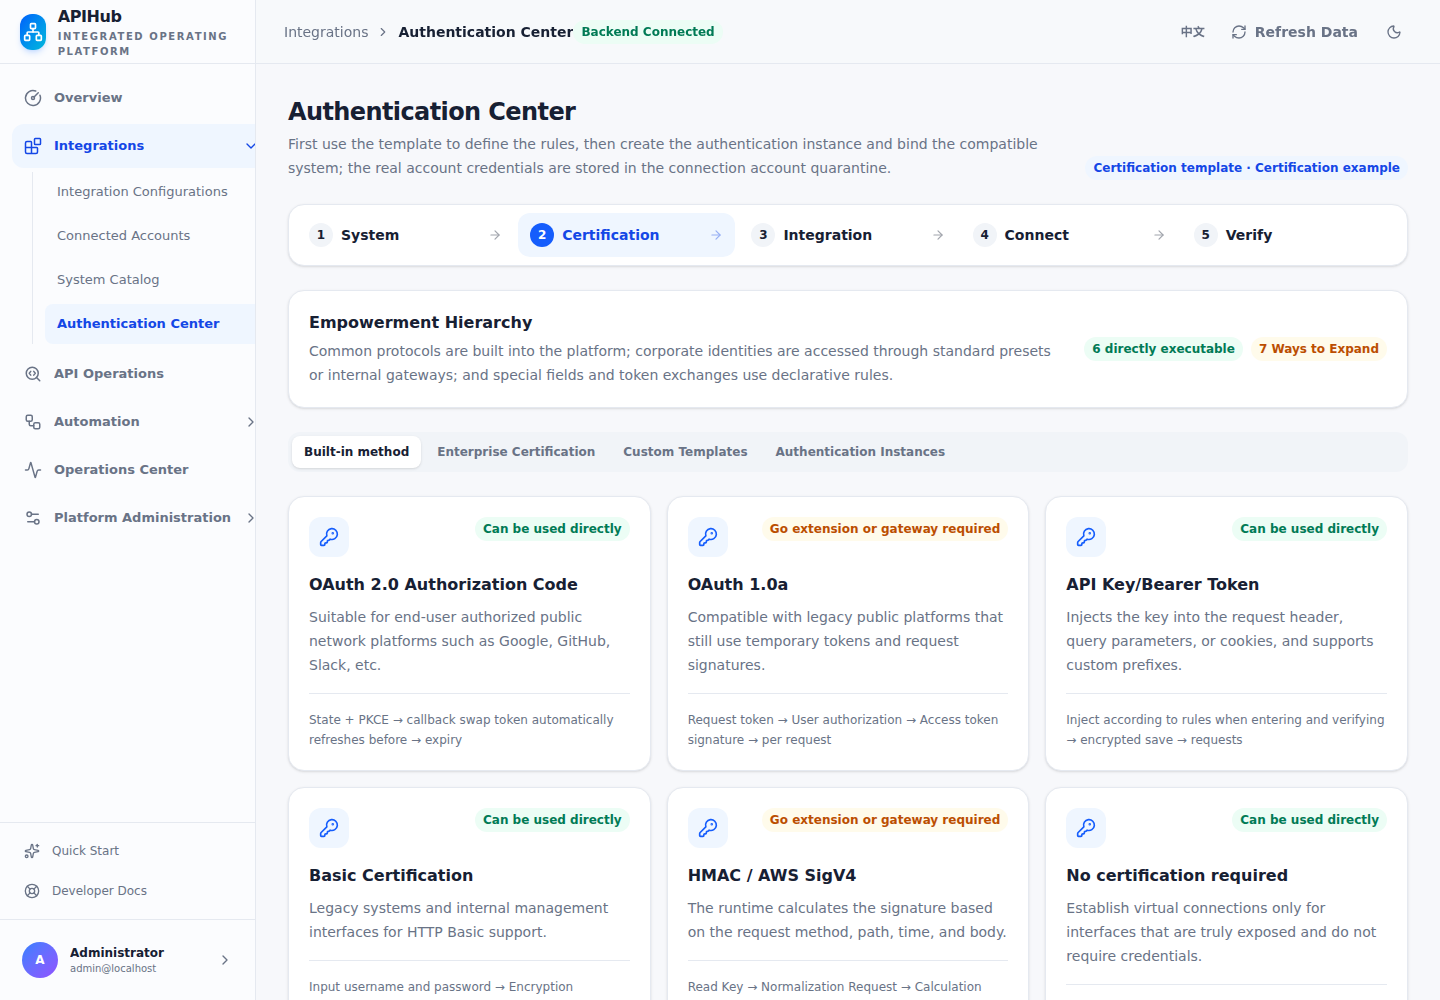
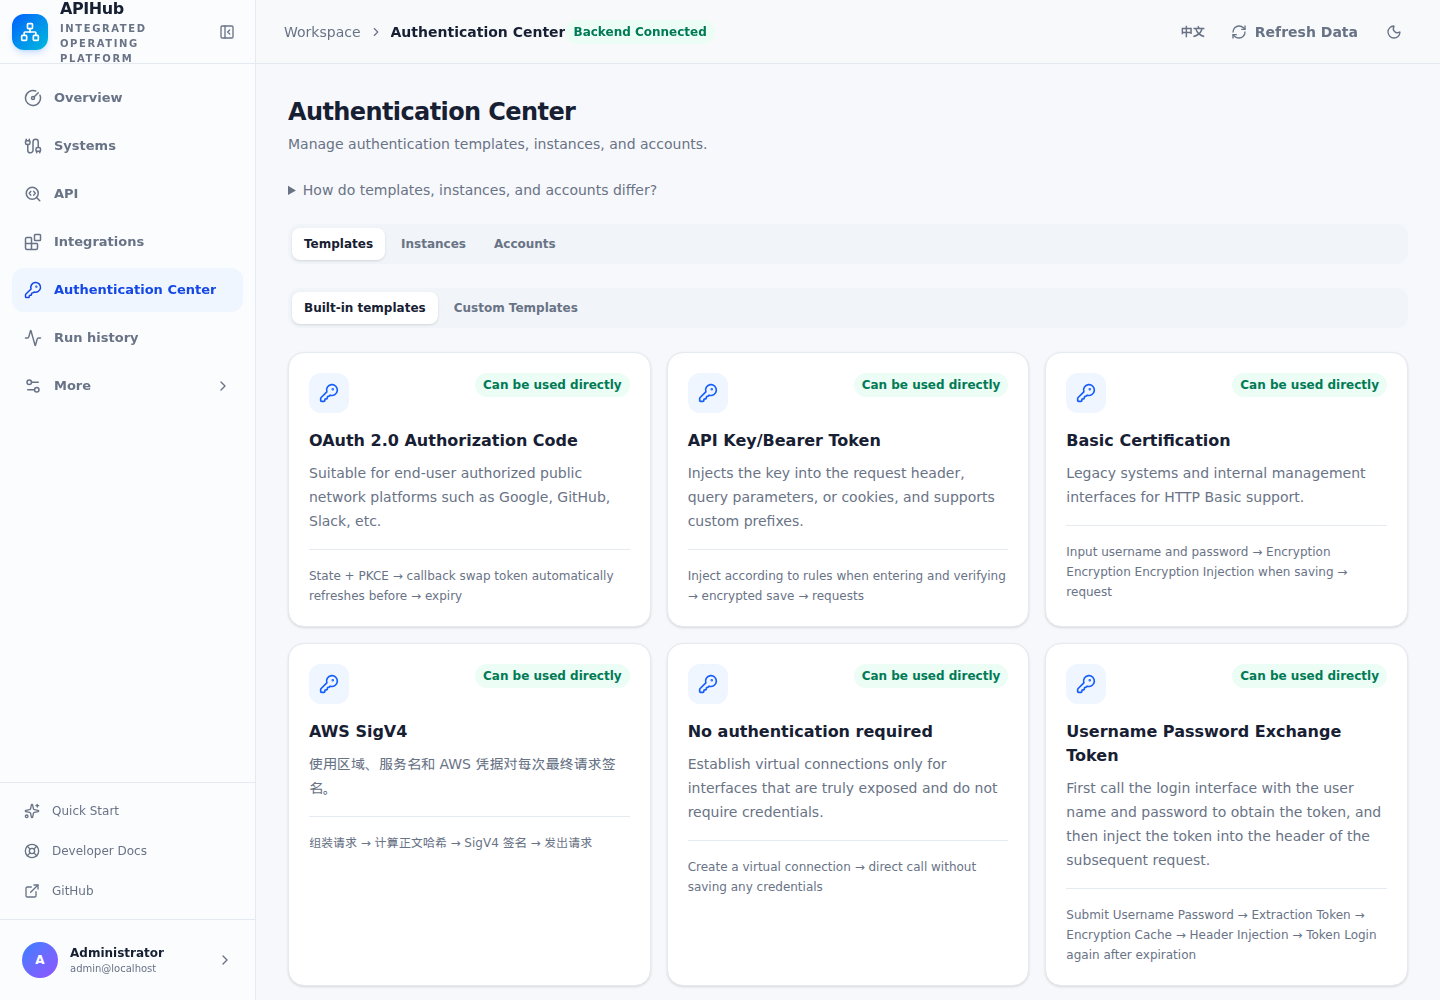
docs: refresh current console screenshots

diff --git a/docs/screenshots/README.md b/docs/screenshots/README.md
@@ -1,20 +1,20 @@
 # Console screenshots / 后台截图
 
-These screenshots were captured from the running Connara administration console (then named APIHub) on 2026-09-17 after the sidebar was reorganized into six main entries. They show actual built-in catalog data, with no configured integrations or generated business activity. The only displayed account is the local default administrator; no passwords, tokens, or credential forms are exposed.
+These screenshots were refreshed from the current embedded Connara administration console on 2026-10-04. The application still displays its APIHub compatibility name. System and API screenshots are filtered to built-in GitHub records; Authentication Center shows built-in templates. User-created systems, internal addresses, credentials, and run history are excluded.
 
-以下截图于 2026-09-17 从运行中的 Connara 后台（拍摄时名称为 APIHub）直接获取，使用六个主入口的新版侧栏。画面为实际内置目录，未添加业务集成或模拟运行数据；仅显示本地默认管理员，不包含密码、Token 或凭据表单。
+以下截图于 2026-10-04 从当前内嵌 Connara 管理后台重新采集，界面仍显示 APIHub 兼容名称。系统和 API 截图只展示筛选后的内置 GitHub 数据，认证中心只展示内置模板；自建系统、内网地址、凭据和运行记录均已排除。
 
 | View / 页面 | English | 简体中文 |
 | --- | --- | --- |
-| Overview / 概览 | [overview.en.png](overview.en.png) | [overview.zh-CN.png](overview.zh-CN.png) |
+| Visual workflow editor / 可视化工作流编辑器 | [overview.en.png](overview.en.png) | [overview.zh-CN.png](overview.zh-CN.png) |
 | System catalog / 系统目录 | [systems.en.png](systems.en.png) | [systems.zh-CN.png](systems.zh-CN.png) |
 | Authentication / 认证中心 | [authentication.en.png](authentication.en.png) | [authentication.zh-CN.png](authentication.zh-CN.png) |
 | API actions / API 操作 | [actions.en.png](actions.en.png) | [actions.zh-CN.png](actions.zh-CN.png) |
 | Mobile navigation / 手机导航 | [mobile-navigation.en.png](mobile-navigation.en.png) | [mobile-navigation.zh-CN.png](mobile-navigation.zh-CN.png) |
 
-Desktop viewport: **1440 × 1000**. Mobile viewport: **390 × 844**. Theme: **light**. Capture tool: **agent-browser**. Each language uses its corresponding UI language setting. Current English screenshots retain any untranslated text from the application; they have not been edited to simulate a more complete translation.
+Desktop viewport: **1440 × 1000**. Mobile viewport: **390 × 844**. Theme: **light**. Capture tool: **agent-browser**. Each language uses the real UI language setting. Current English screenshots retain untranslated workflow and authentication text from the application; the images were not edited to simulate a complete translation.
 
-桌面视口为 **1440 × 1000**，手机视口为 **390 × 844**，使用浅色主题和 **agent-browser** 截图。两种语言分别切换实际 UI 语言后获取；英文画面中的未翻译文本按实际保留，没有通过编辑图片伪造翻译效果。
+桌面视口为 **1440 × 1000**，手机视口为 **390 × 844**，使用浅色主题和 **agent-browser** 截图。两种语言分别切换实际 UI 语言后获取；英文工作流和认证界面中的未翻译文本按实际保留，没有编辑图片伪造完整翻译。
 
 The current visual workflow editor screenshots and their capture boundaries are documented in [the workflow screenshot index](../assets/workflows/README.md).
 
@@ -24,8 +24,8 @@ To refresh / 更新截图：
 
 1. Start the current build and sign into an authorized local instance. / 启动当前构建并登录授权的本地实例。
 2. Select English or Chinese and the light theme. / 选择对应语言和浅色主题。
-3. Visit `/`, `/providers`, `/auth`, and `/actions`, wait for backend loading to finish, and capture at the desktop viewport. / 依次打开这些页面，等待后端加载完成，以桌面尺寸截图。
-4. At the mobile viewport, open navigation on `/providers` and wait for the drawer animation to finish before capturing. / 手机尺寸下打开系统目录的导航抽屉，待动画结束后截图。
-5. Check that no credentials or private business data are visible, then update both language variants. / 检查没有凭据或私有业务数据，再更新中英文两套图片。
+3. Capture `/workflows/new`; filter `/providers` and `/actions` to the built-in GitHub records; open `/auth?section=templates`. Wait for backend and capability loading before every capture. / 截取 `/workflows/new`；将 `/providers` 和 `/actions` 筛选为内置 GitHub 数据；打开 `/auth?section=templates`。每次截图前等待后台和能力加载完成。
+4. At the mobile viewport, open navigation on `/workflows/new` and wait for the drawer animation to finish. / 手机尺寸下在 `/workflows/new` 打开导航抽屉，待动画结束后截图。
+5. Check the final pixels for user-created systems, internal URLs, credentials, and run history, then update both language variants. / 检查最终图片没有自建系统、内网地址、凭据或运行记录，再更新中英文两套图片。
 
 Return to [English README](../../README.md) / [中文 README](../../README.zh-CN.md).

diff --git a/README.md b/README.md
@@ -8,7 +8,7 @@ A self-hosted API integration platform for connecting external services and inte
 
 Connara combines a system/action catalog with connection and authentication management. The backend is written in Go, and the React console is embedded in the application binary: a basic installation runs **one Connara process, PostgreSQL, and Redis**.
 
-![Connara administration console — integration overview](docs/screenshots/overview.en.png)
+![Connara visual workflow editor](docs/screenshots/overview.en.png)
 
 [![License: Apache-2.0](https://img.shields.io/badge/License-Apache%202.0-blue.svg)](LICENSE)
 
@@ -64,32 +64,35 @@ OAuth 1.0a, provider-specific HMAC, SAML assertion creation and validation, and 
 
 ## Console navigation
 
-The sidebar has four main entries. Related pages appear in collapsible groups, with the active page's group opened automatically.
+The sidebar keeps the six daily-use areas visible and places lower-frequency administration pages under **More**.
 
 | Main entry | Pages |
 | --- | --- |
 | Overview | Integration totals, recent activity, and setup shortcuts |
-| Integrations | System Catalog, Authentication Center, Integration Configurations, Connected Accounts |
-| Calls and Runs | API Actions and the Operations Center |
-| More Features | Sync Tasks, Workflows, Webhooks, Access Control, Audit Logs, Team Management, and Platform Settings |
+| Systems | Built-in and user-created systems, groups, authentication-template associations, and connection status |
+| API | Reusable API definitions, system/status filters, and test entry points |
+| Integrations | System, authentication instance, base URL, and connected-account configuration |
+| Authentication Center | Authentication templates, system-bound instances, and accounts |
+| Run history | API, sync, workflow, authentication, and Webhook execution records |
+| More | Sync Tasks, Workflows, Webhooks, Access Control, Audit Logs, Team Management, and Platform Settings |
 
 **Quick Start** and **Developer Docs** remain accessible at the bottom of the sidebar. Navigation is shipped with the frontend; there is no separate menu SQL to import.
 
 ## Screenshots
 
-The catalog, authentication, API-action, and navigation screenshots below were captured from the running console on **2026-09-17**, before the project was renamed from APIHub to Connara. The current workflow editor screenshots were captured from the embedded console on **2026-10-04**. The images retain the APIHub header while binary and environment-variable compatibility names remain in use. No credentials or private business data are shown.
+All screenshots in this README were refreshed from the current embedded console on **2026-10-04**. Catalog and API pages are filtered to the built-in GitHub records, and Authentication Center shows built-in templates, so user-created systems, internal addresses, credentials, and run history are excluded. The application still uses the APIHub compatibility name in its header and binaries.
 
 ### System catalog
 
-![System catalog with the built-in GitHub and JSONPlaceholder systems](docs/screenshots/systems.en.png)
+![Current system catalog filtered to the built-in GitHub system](docs/screenshots/systems.en.png)
 
 ### Authentication center
 
-![Authentication center showing directly executable methods and extension templates](docs/screenshots/authentication.en.png)
+![Current authentication center showing built-in executable templates](docs/screenshots/authentication.en.png)
 
 ### API actions
 
-![API action definitions and the five-step integration workflow](docs/screenshots/actions.en.png)
+![Current API definitions filtered to the built-in GitHub actions](docs/screenshots/actions.en.png)
 
 ### Visual workflow editor
 
